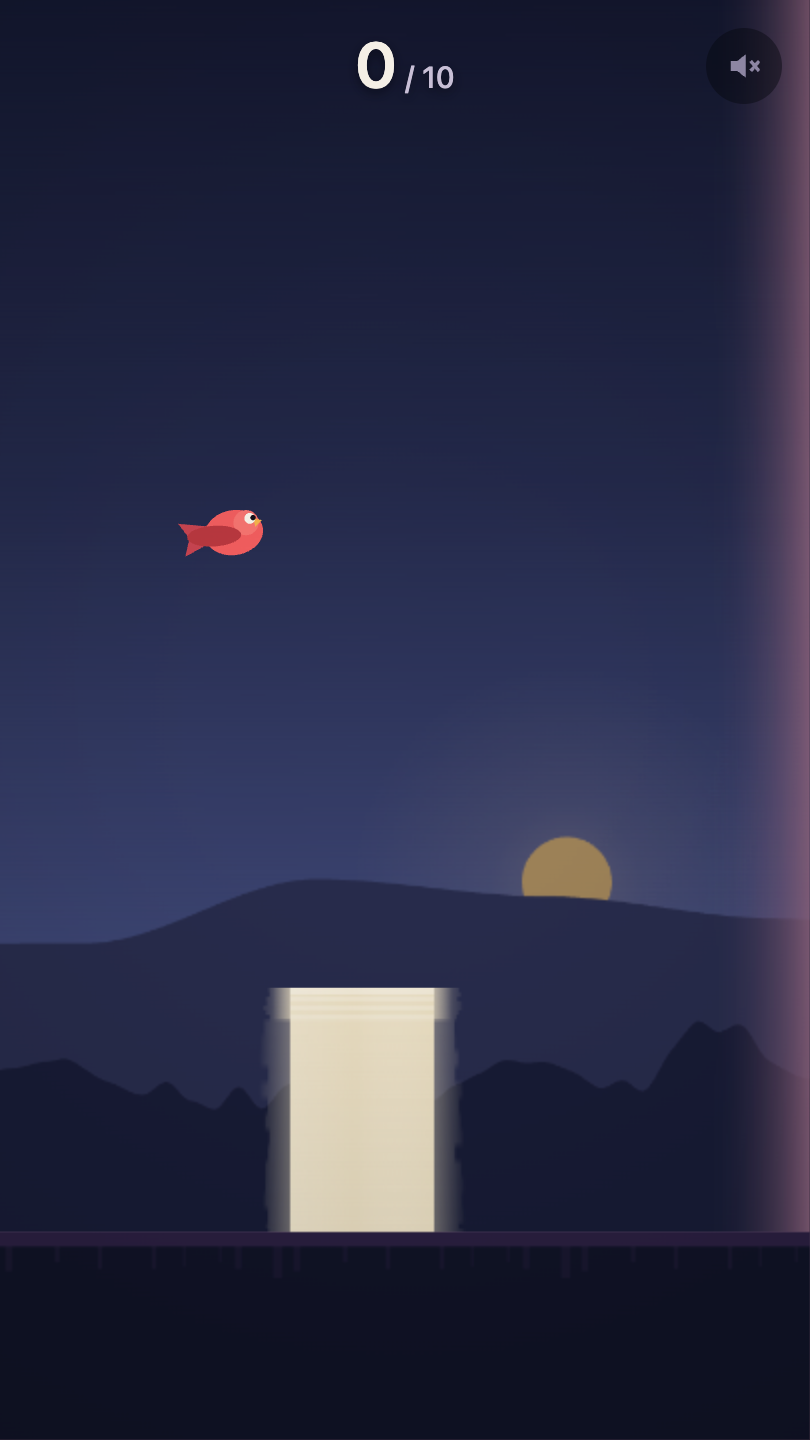
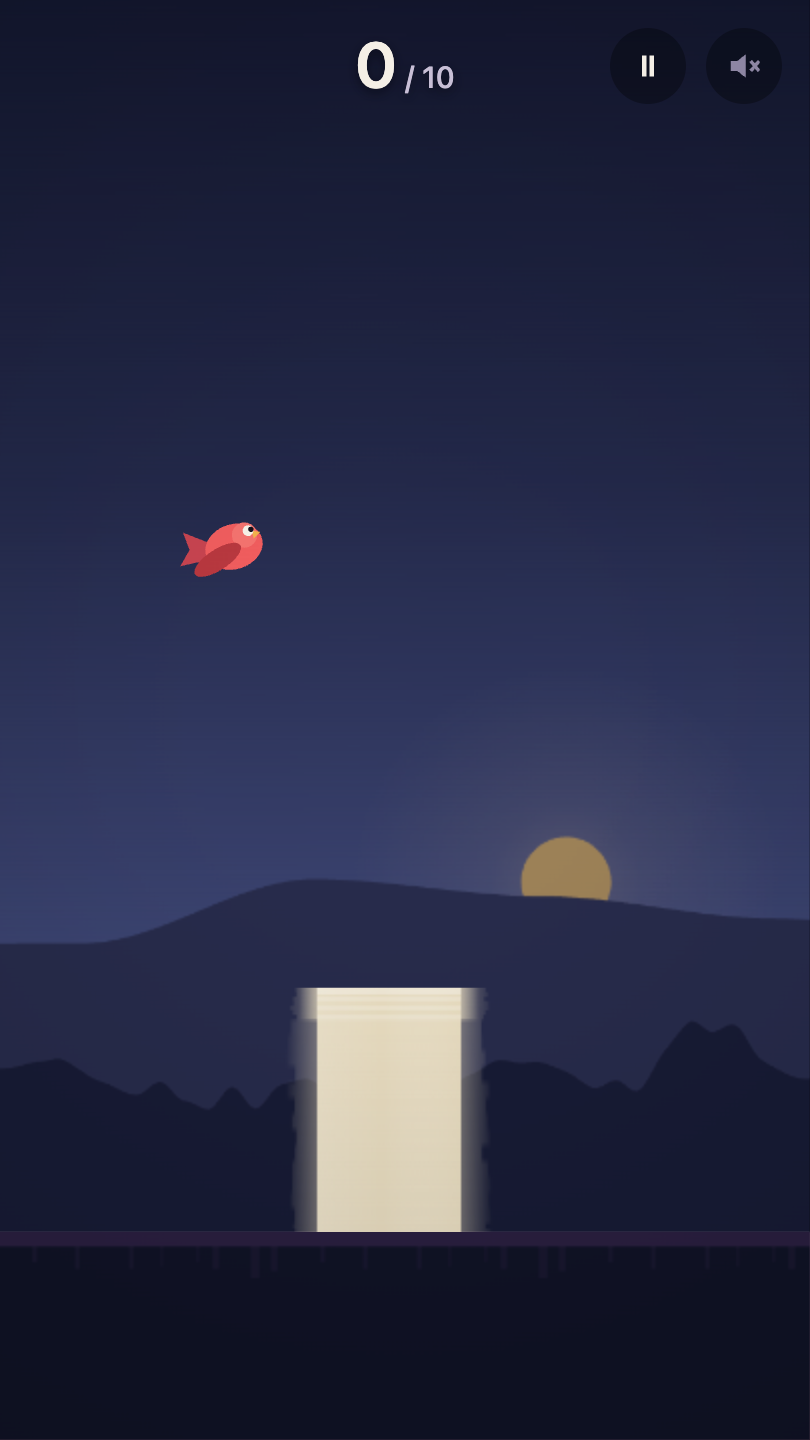
docs: reshoot screenshots, describe pause, ambience and flow particles, drop stale band comments

diff --git a/src/game/mechanics.ts b/src/game/mechanics.ts
@@ -10,8 +10,8 @@ type MovingPipes = NonNullable<LevelConfig['mechanics']['movingPipes']>;
  *
  * ЕДИНСТВЕННЫЙ источник координат зон. Мировая координата экранной точки `x`
  * равна `state.travelledX + x`: логика зовёт эту функцию для позиции птицы,
- * а рендер в подходе Б будет звать её же для каждой экранной полосы. Второй
- * формулы быть не должно — разъехавшиеся полосы и физика делают игру
+ * рендер — для каждой частицы потока, звук — для порывов каньона. Второй
+ * формулы быть не должно — разъехавшиеся телеграф и физика делают игру
  * нечестной, а причину такого расхождения почти невозможно найти.
  *
  * Период синуса — ровно две зоны: восходящая и нисходящая.
@@ -51,14 +51,13 @@ export function pipeGapCenterAt(
 
 /**
  * Ширина одного полного периода зон в мировых единицах: восходящая зона плюс
- * нисходящая. По ней строится плитка полос ветра — плитка, равная периоду и
- * сдвигаемая на `travelledX`, попадает в зоны точно, без второй формулы.
+ * нисходящая.
  */
 export function airflowPeriod(airflow: Airflow): number {
   return (2 * WORLD_WIDTH) / airflow.zones;
 }
 
-/** Нормированная сила потока, −1…1. Полосы ветра рисуются по ней. */
+/** Нормированная сила потока, −1…1. По ней звук ведёт порывы каньона. */
 export function airflowNormalised(worldX: number, airflow: Airflow): number {
   return airflow.strength === 0 ? 0 : airflowAt(worldX, airflow) / airflow.strength;
 }

diff --git a/src/render/pixi/PixiRenderer.ts b/src/render/pixi/PixiRenderer.ts
@@ -99,7 +99,7 @@ export class PixiRenderer implements Renderer {
 
   /**
    * Конфиг текущего уровня. Из него берутся скорость прокрутки фона,
-   * интерполяция труб и зоны для полос ветра, поэтому он обязан меняться при
+   * интерполяция труб и зоны для частиц потока, поэтому он обязан меняться при
    * смене уровня, а не оставаться тем, с которым рендер был создан: иначе
    * земля с параллаксом 1.0 едет со скоростью первого уровня.
    *
@@ -110,7 +110,7 @@ export class PixiRenderer implements Renderer {
 
     const app = this.#app;
 
-    // Полосы ветра зависят от зон уровня — сцену надо пересобрать под них.
+    // Частицы потока зависят от зон уровня — сцену надо пересобрать под них.
     if (app !== null && this.#theme !== null) {
       this.#current?.setTheme(app.renderer, this.#theme, config, this.#reducedMotion);
     }

diff --git a/tests/themes.test.ts b/tests/themes.test.ts
@@ -96,14 +96,13 @@ describe('бесконечный режим', () => {
   });
 });
 
-describe('плитка полос ветра', () => {
+describe('период зон потока', () => {
   /**
-   * Полосы рисуются плиткой шириной в один период зон, сдвигаемой на
-   * travelledX. Если ширина плитки перестанет быть периодом, полосы уедут
-   * из фазы с физикой — и это единственное место, где такое расхождение
-   * ловится числом.
+   * `airflowPeriod` обязан быть ровно одним периодом `airflowAt`: восходящая
+   * зона плюс нисходящая. Иначе период, взятый отсюда, разойдётся с зонами,
+   * по которым сносит птицу.
    */
-  it('ширина плитки равна периоду зон', () => {
+  it('airflowPeriod равен периоду зон', () => {
     const airflow = { zones: 3, strength: 300 };
     const period = airflowPeriod(airflow);
 

diff --git a/src/render/flashSchedule.ts b/src/render/flashSchedule.ts
@@ -24,8 +24,8 @@ export const INITIAL_FLASH: FlashState = { remainingMs: 0, cooldownMs: FLASH_MIN
 /**
  * Расписание вспышек молнии — чистым шагом.
  *
- * Вынесено из слоя по той же причине, что раскладка препятствия и смещение
- * полос ветра: сам слой импортирует `pixi.js`, а в прогон тестов рантайм
+ * Вынесено из слоя по той же причине, что раскладка препятствия и бюджет
+ * частиц: сам слой импортирует `pixi.js`, а в прогон тестов рантайм
  * рендера не тащится. До вытяжки расписание не было покрыто ничем.
  *
  * Здесь же соблюдаются два из трёх ограничений контракта читаемости:

diff --git a/src/game/types.ts b/src/game/types.ts
@@ -102,8 +102,8 @@ export interface GameState {
   readonly elapsedMs: number;
   /**
    * Пройденное миром расстояние. Мировая координата экранной точки `x` — это
-   * `travelledX + x`; по ней считаются зоны `airflow`, и по ней же их будет
-   * рисовать рендер. Копится тем же интегралом, что двигает трубы, поэтому
+   * `travelledX + x`; по ней считаются зоны `airflow`, и по ней же рендер
+   * двигает частицы потока. Копится тем же интегралом, что двигает трубы, поэтому
    * учитывает разгон из `ramp`.
    */
   readonly travelledX: number;

diff --git a/src/hooks/useGameLoop.ts b/src/hooks/useGameLoop.ts
@@ -224,7 +224,7 @@ export function useGameLoop(
       // Клик по карточке — жест, значит контекст можно открыть здесь, и фон
       // начнётся вместе с уровнем, а не с первого взмаха.
       soundRef.current?.warmUp();
-      // Скорость прокрутки фона и зоны для полос ветра берутся из конфига
+      // Скорость прокрутки фона и зоны для частиц потока берутся из конфига
       // уровня — рендер обязан узнать о смене сразу, а не при следующем
       // монтировании.
       rendererRef.current?.setLevel(config);

diff --git a/src/audio/thunder.ts b/src/audio/thunder.ts
@@ -7,7 +7,7 @@ export const THUNDER_MAX_DELAY_MS = 2000;
 /**
  * Больше двух громов в полёте одновременно не бывает.
  *
- * Вспышки идут не реже чем раз в 2.6 с, а гром отстаёт до 2 с, поэтому в
+ * Вспышки идут не чаще чем раз в 2.6 с, а гром отстаёт до 2 с, поэтому в
  * норме их и так не больше двух. Ограничение нужно на случай, когда вспышки
  * пошли часто: без него очередь копит долг и выстреливает раскатами подряд,
  * а это читается как поломка, а не как гроза.

diff --git a/tests/constants.test.ts b/tests/constants.test.ts
@@ -49,7 +49,7 @@ describe('замороженные константы мира', () => {
 
   it('числа контракта читаемости: запретная полоса ложного движения', () => {
     // TASK.md: ни один слой фона не идёт с параллаксом в этой полосе, кроме
-    // земли и полос ветра. `parallax.test.ts` сверяет слои с этой полосой,
+    // земли. `parallax.test.ts` сверяет слои с этой полосой,
     // поэтому саму полосу закрепить больше некому.
     expect(FALSE_MOTION_BAND.min).toBe(0.85);
     expect(FALSE_MOTION_BAND.max).toBe(1.15);

diff --git a/src/game/themes.ts b/src/game/themes.ts
@@ -60,10 +60,10 @@ export const STORM: Theme = {
 };
 
 /**
- * Каньон: пыль и полосы ветра.
+ * Каньон: пыль.
  *
- * Полосы рисуют зоны `airflow` уровня — здесь фон работает телеграфом
- * геймплея, поэтому идёт со скоростью мира; см. исключение в `parallax.ts`.
+ * Зоны потока здесь телеграфируют частицы, но задаёт их уровень
+ * (`mechanics.airflow`), а не тема: рендер получает зоны из конфига уровня.
  */
 export const CANYON: Theme = {
   id: 'canyon',

diff --git a/src/game/Game.ts b/src/game/Game.ts
@@ -106,8 +106,8 @@ export class Game {
     this.#prevBirdY = this.#birdY;
     this.#elapsedMs += STEP_MS;
 
-    // Поток считается для мировой позиции птицы той же функцией, которой в
-    // подходе Б рендер будет рисовать полосы ветра.
+    // Поток считается для мировой позиции птицы той же функцией, по которой
+    // рендер двигает частицы потока.
     const { airflow } = this.#config.mechanics;
     const drift = airflow === undefined ? 0 : airflowAt(this.#travelledX + BIRD_X, airflow);
 

diff --git a/src/audio/ambience.ts b/src/audio/ambience.ts
@@ -102,7 +102,7 @@ export class Ambience {
         this.#gustLeftMs = GUST_UPDATE_MS;
 
         const airflow = config.mechanics.airflow;
-        // Та же функция, что ведёт физику и полосы ветра. Третьего источника
+        // Та же функция, что ведёт физику и частицы потока. Другого источника
         // координат зон в проекте нет и не будет.
         const flow =
           airflow === undefined ? 0 : airflowNormalised(state.travelledX + BIRD_X, airflow);
